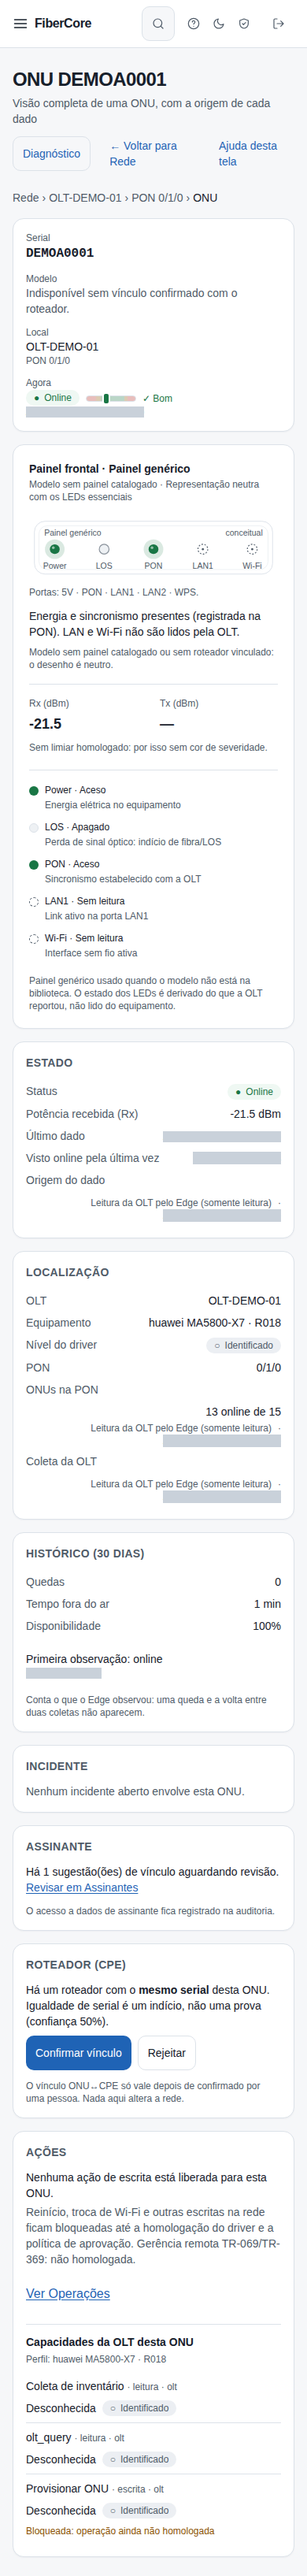
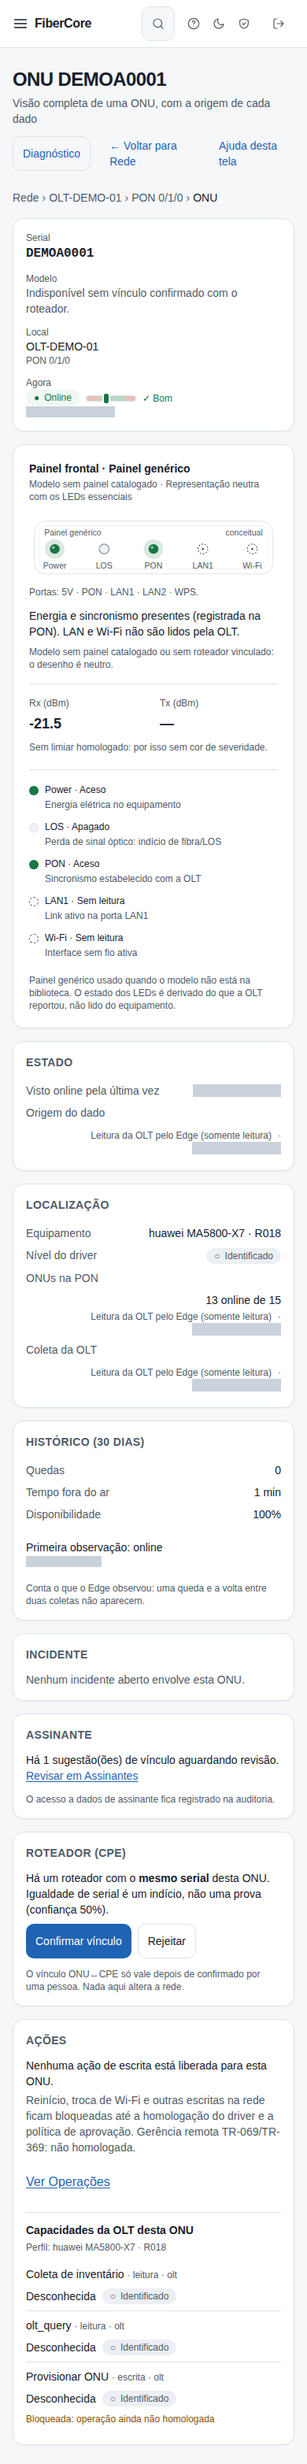
feat(web): ONU 360° sem linhas repetidas (Status, Rx, idade, OLT e PON já estão na identificação do alto)
Com a trilha e a identificação do alto (flag onu_quick_inspector), os cartões Estado e Localização repetiam Status, Rx, idade do dado, OLT e PON. Agora
ficam só as linhas que o alto não tem; com a flag desligada a tela anterior é a mesma. e2e funcional + aparelho passam (73) e a captura da ajuda foi
regenerada e conferida (só a da ONU 360°; as demais regeneradas foram descartadas por não terem mudança de conteúdo).

Claude-Session: https://claude.ai/code/session_01G65B8a86N96ZoCrjd2Ad9b

Changed region(s): [[0.0308, 0.0, 0.9231, 0.992], [0.6462, 0.031, 0.8923, 0.124], [0.6154, 0.0, 0.6462, 0.031]]

diff --git a/apps/web/src/app/rede/onu/[id]/page.tsx b/apps/web/src/app/rede/onu/[id]/page.tsx
@@ -69,9 +69,10 @@ export default async function Onu360Page({ params, searchParams }: { params: Pro
         </div>}
         <Card title="Estado" testid="onu360-state">
           <dl>
-            <Row k="Status"><StatusPill value={o.status} /></Row>
-            <Row k="Potência recebida (Rx)">{o.rx_dbm !== null ? `${o.rx_dbm} dBm` : "—"}</Row>
-            <Row k="Último dado"><DataFreshness freshness={o.freshness} observedAt={o.observed_at} /></Row>
+            {/* com a identificação no alto (newUx) o status, o Rx e a idade do dado já estão ali: aqui ficam só as linhas que o alto não tem */}
+            {!newUx && <Row k="Status"><StatusPill value={o.status} /></Row>}
+            {!newUx && <Row k="Potência recebida (Rx)">{o.rx_dbm !== null ? `${o.rx_dbm} dBm` : "—"}</Row>}
+            {!newUx && <Row k="Último dado"><DataFreshness freshness={o.freshness} observedAt={o.observed_at} /></Row>}
             <Row k="Visto online pela última vez">{when(o.last_online_at)}</Row>
             {o.down_since && <Row k="Fora do ar desde">{when(o.down_since)}</Row>}
             <Row k="Origem do dado"><SourceChip p={o.provenance.state} /></Row>
@@ -79,10 +80,10 @@ export default async function Onu360Page({ params, searchParams }: { params: Pro
         </Card>
         <Card title="Localização" testid="onu360-location">
           <dl>
-            <Row k="OLT">{o.olt.name}</Row>
+            {!newUx && <Row k="OLT">{o.olt.name}</Row>}
             <Row k="Equipamento">{o.olt.vendor} {o.olt.model ?? ""}{o.olt.firmware ? ` · ${o.olt.firmware}` : ""}</Row>
             <Row k="Nível do driver"><StatusPill value={o.olt.support_level} /></Row>
-            <Row k="PON">{o.pon?.path ?? "—"}</Row>
+            {!newUx && <Row k="PON">{o.pon?.path ?? "—"}</Row>}
             {o.pon && <Row k="ONUs na PON"><span>{o.pon.online} online de {o.pon.onus}</span> {o.provenance.pon && <SourceChip p={o.provenance.pon} />}{o.pon.freshness === "stale" && <span className="block text-xs text-warn">Último estado conhecido, não o atual.</span>}</Row>}
             <Row k="Coleta da OLT"><SourceChip p={o.provenance.olt} /></Row>
           </dl>

diff --git a/apps/web/e2e/app.spec.ts b/apps/web/e2e/app.spec.ts
@@ -117,7 +117,10 @@ test("ONU 360: painel lateral abre pelo serial, foco volta ao fechar e a página
   await expect(page).toHaveURL(/\/rede\/onu\/[0-9a-f-]{36}$/);
   await expect(page.getByRole("heading", { name: "ONU DEMOA0001" })).toBeVisible();
   await expect(page.getByTestId("onu360-state")).toContainText("Leitura da OLT pelo Edge");
-  await expect(page.getByTestId("onu360-location")).toContainText("OLT-DEMO-01");
+  await expect(page.getByTestId("onu360-identity")).toContainText("OLT-DEMO-01");   // a OLT e a PON estão na identificação do alto
+  await expect(page.getByTestId("onu360-location")).toContainText("Equipamento");
+  await expect(page.getByTestId("onu360-location").getByText("OLT", { exact: true })).toHaveCount(0);
+  await expect(page.getByTestId("onu360-state").getByText("Status", { exact: true })).toHaveCount(0);
   await expect(page.getByTestId("onu360-customer")).toContainText(/Cliente Demo Um|sugestão/); // vínculo aprovado ou ainda sugerido, conforme a ordem dos testes
   await expect(page.getByTestId("onu360-actions")).toContainText("Nenhuma ação de escrita está liberada");
   const gate = page.getByTestId("capability-gate");  // registro vazio no demo: tudo Desconhecida; escrita segue bloqueada pelo motor de jobs

diff --git a/docs/help/how-to/rede/onu-360.md b/docs/help/how-to/rede/onu-360.md
@@ -20,7 +20,7 @@ ui_route: "/rede/onu/[id]"
 1. Acesse **Rede** e encontre a ONU (busque pelo serial, se preciso).
 2. Clique no **serial**: abre o painel de detalhes ao lado da lista. **Esc** ou **Fechar detalhes** volta para a lista.
 3. No painel, clique em **Abrir Visão 360°**. A página começa pela trilha **Rede › OLT › PON › ONU** e pelo **painel frontal** do equipamento, com Rx e Tx logo abaixo.
-4. Leia os blocos (cada dado externo mostra a **fonte**, a **idade** e se está **Atualizado** ou **defasado**): **Estado** (status, Rx, idade do dado, origem), **Localização** (OLT, PON, quantas ONUs da PON estão online), **Incidente**, **Assinante**, **Roteador (CPE)** (quando o recurso está ligado para o provedor) e **Ações**. Em **Ações**, a lista **Capacidades da OLT desta ONU** mostra, para o perfil da OLT (fabricante, modelo e firmware), o que se sabe de cada operação: **Suportada / Não suportada / Desconhecida** e o nível de evidência (**Identificado / Observado / Certificado**).
+4. Leia os blocos (cada dado externo mostra a **fonte**, a **idade** e se está **Atualizado** ou **defasado**): **Estado** (quando foi vista online pela última vez, desde quando está fora do ar e a origem; o status, o Rx e a idade do dado ficam na identificação do alto, sem repetir), **Localização** (equipamento, nível do driver, quantas ONUs da PON estão online e a coleta; a OLT e a PON ficam na identificação do alto), **Incidente**, **Assinante**, **Roteador (CPE)** (quando o recurso está ligado para o provedor) e **Ações**. Em **Ações**, a lista **Capacidades da OLT desta ONU** mostra, para o perfil da OLT (fabricante, modelo e firmware), o que se sabe de cada operação: **Suportada / Não suportada / Desconhecida** e o nível de evidência (**Identificado / Observado / Certificado**).
 
 ![Tela em desktop 1440×900 — Como ver a ONU 360](../../assets/rede/onu-360/desktop.png)
 
